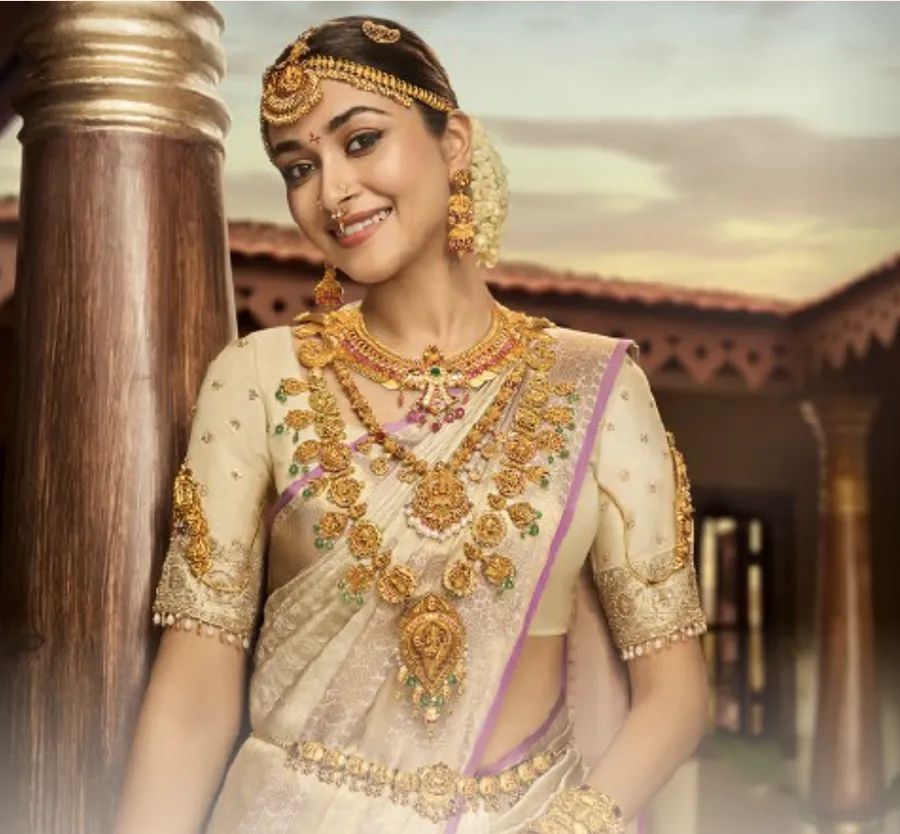
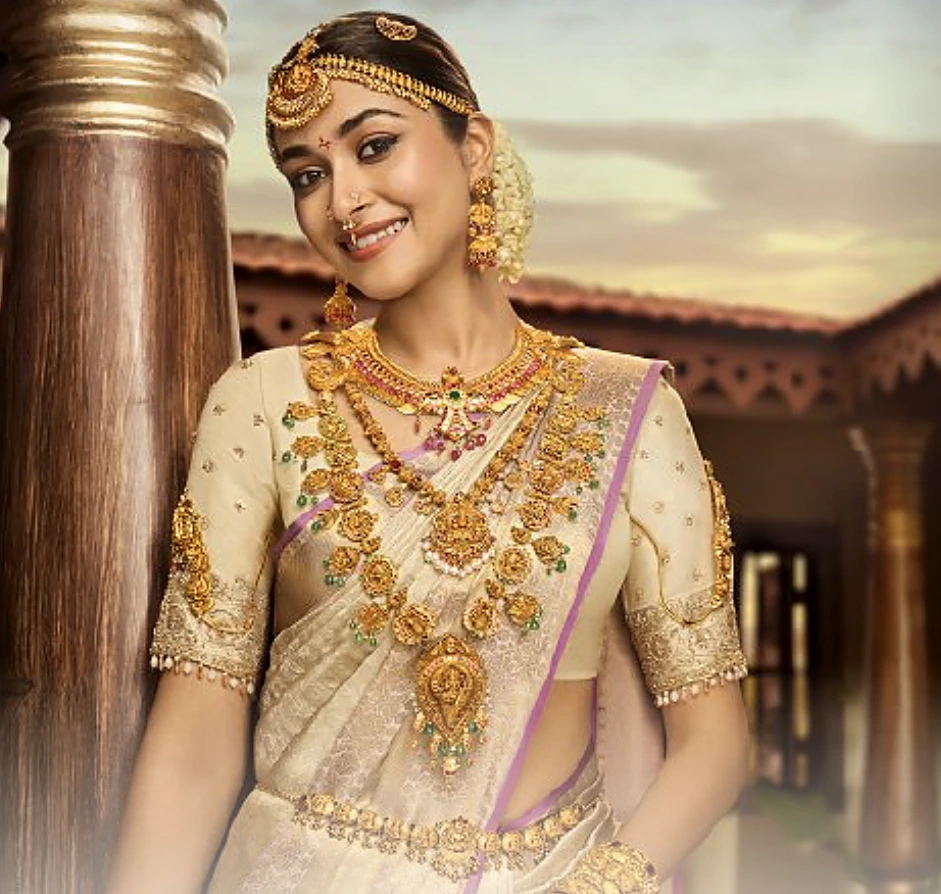
Sharper hero images in a cleaner arch frame
- Single fine gold line inside the arch; frame matches each photo's proportions
- High-resolution Heirloom Ganesha photo shown whole and centred in the hero
- Bride photo re-exported at full resolution with light sharpening

Claude-Session: https://claude.ai/code/session_01EoL3JirR1E1GvSMPyimpmZ

diff --git a/src/routes/index.tsx b/src/routes/index.tsx
@@ -1,7 +1,13 @@
 import { createFileRoute, Link } from "@tanstack/react-router";
 import { ExternalLink } from "lucide-react";
 import { SiteShell } from "@/components/site-shell";
-import { KolamDivider, ProductCard, PromiseIcon, ScriptHeading } from "@/components/brand";
+import {
+  HeroArch,
+  KolamDivider,
+  ProductCard,
+  PromiseIcon,
+  ScriptHeading,
+} from "@/components/brand";
 import { pageHead } from "@/lib/site";
 import { ANANTARA_URL, PRODUCTS, productBySlug } from "@/lib/products";
 import brideImage from "@/assets/anantara/anantara-bride.webp";
@@ -52,18 +58,12 @@ function Index() {
             </div>
           </div>
           <div className="mx-auto w-full max-w-md">
-            <div className="rounded-t-[999px] p-2 ring-1 ring-[#d8b878]/60">
-              <div className="overflow-hidden rounded-t-[999px]">
-                <img
-                  src={brideImage}
-                  alt="A South Indian bride in a cream silk saree wearing Indriya Anantara gold temple jewellery: layered necklaces, a waist belt and a maang tikka"
-                  width={900}
-                  height={834}
-                  fetchPriority="high"
-                  className="aspect-[4/5] w-full object-cover object-top"
-                />
-              </div>
-            </div>
+            <HeroArch
+              src={brideImage}
+              alt="A South Indian bride in a cream silk saree wearing Indriya Anantara gold temple jewellery: layered necklaces, a waist belt and a maang tikka"
+              width={941}
+              height={894}
+            />
           </div>
         </div>
       </section>

diff --git a/src/routes/temple-jewellery/varalakshmi-vratham.tsx b/src/routes/temple-jewellery/varalakshmi-vratham.tsx
@@ -1,7 +1,13 @@
 import { createFileRoute, Link } from "@tanstack/react-router";
 import { ExternalLink } from "lucide-react";
 import { Breadcrumbs, SiteShell } from "@/components/site-shell";
-import { KolamDivider, ProductCard, PromiseIcon, ScriptHeading } from "@/components/brand";
+import {
+  HeroArch,
+  KolamDivider,
+  ProductCard,
+  PromiseIcon,
+  ScriptHeading,
+} from "@/components/brand";
 import { breadcrumbLd, jsonLd, pageHead, absoluteUrl } from "@/lib/site";
 import { TEMPLE_FAQS, faqPageLd } from "@/lib/faqs";
 import { ANANTARA_URL, productBySlug } from "@/lib/products";
@@ -99,16 +105,12 @@ function VaralakshmiPage() {
             </div>
           </div>
           <div className="mx-auto w-full max-w-md">
-            <div className="overflow-hidden rounded-t-[999px] bg-[#f7ebe0] outline outline-1 outline-offset-8 outline-[#d8b878]/60">
-              <img
-                src={heroImage}
-                alt="Heirloom Ganesha 22 karat gold temple necklace with a Lord Ganesha pendant, ruby drops and pearls for Varalakshmi Vratham"
-                width={900}
-                height={900}
-                fetchPriority="high"
-                className="aspect-[4/5] w-full object-cover"
-              />
-            </div>
+            <HeroArch
+              src={heroImage}
+              alt="Heirloom Ganesha 22 karat gold temple necklace with a Lord Ganesha pendant, ruby drops and pearls for Varalakshmi Vratham"
+              width={1280}
+              height={1280}
+            />
           </div>
         </div>
       </section>

diff --git a/src/components/brand.tsx b/src/components/brand.tsx
@@ -62,6 +62,43 @@ export function SectionIntro({ children }: { children: ReactNode }) {
   );
 }
 
+/** Hero image in an arch, with one fine gold line set just inside the edge. */
+export function HeroArch({
+  src,
+  alt,
+  width,
+  height,
+  className = "",
+  imgClassName = "",
+}: {
+  src: string;
+  alt: string;
+  width: number;
+  height: number;
+  className?: string;
+  imgClassName?: string;
+}) {
+  return (
+    <div
+      className={`relative overflow-hidden rounded-t-[999px] bg-[#fff1e4] shadow-[0_30px_70px_-30px_rgba(0,0,0,0.55)] ${className}`}
+      style={{ aspectRatio: `${width} / ${height}` }}
+    >
+      <img
+        src={src}
+        alt={alt}
+        width={width}
+        height={height}
+        fetchPriority="high"
+        className={`h-full w-full object-cover ${imgClassName}`}
+      />
+      <span
+        aria-hidden="true"
+        className="pointer-events-none absolute inset-3 rounded-t-[999px] border border-[#e8d3a6]/80"
+      />
+    </div>
+  );
+}
+
 /** Product card: arch-topped frame with a hairline gold border, quiet serif name, understated link. */
 export function ProductCard({
   product,

diff --git a/src/routes/temple-jewellery-guide.tsx b/src/routes/temple-jewellery-guide.tsx
@@ -82,8 +82,8 @@ function GuidePage() {
         <img
           src={guideImage}
           alt="Heirloom Ganesha gold temple necklace from Indriya's Anantara collection, with a deity pendant, ruby drops and pearls"
-          width={900}
-          height={900}
+          width={1280}
+          height={1280}
           className="mt-8 aspect-[16/10] w-full rounded-t-[200px] bg-[#fbeee3] object-cover"
           loading="lazy"
           decoding="async"
